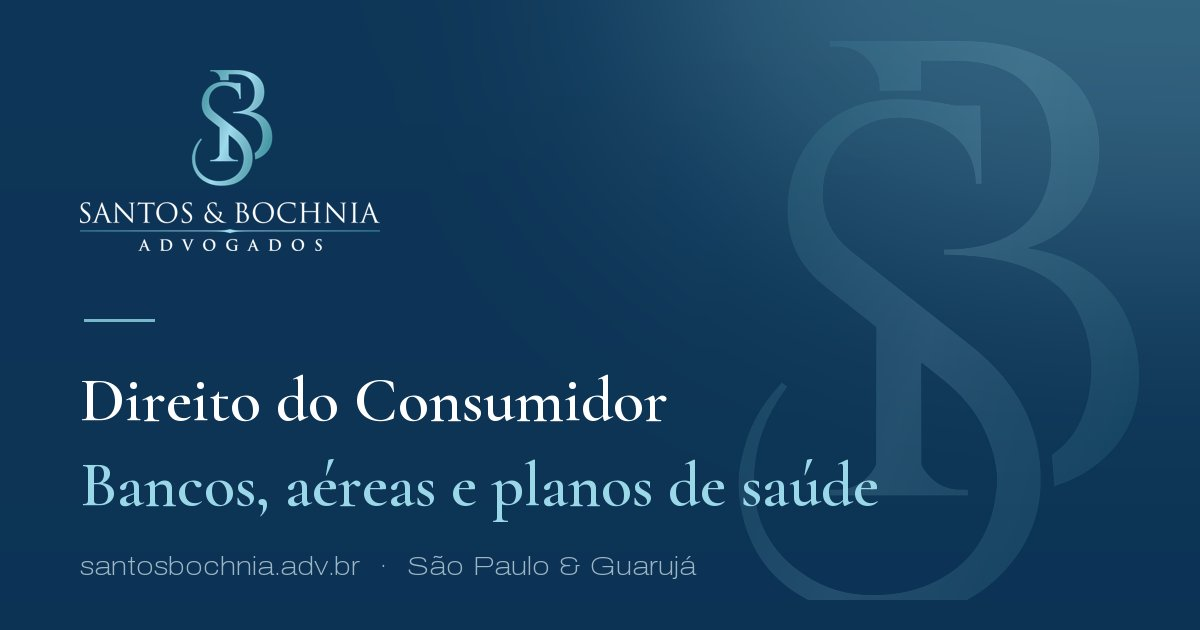
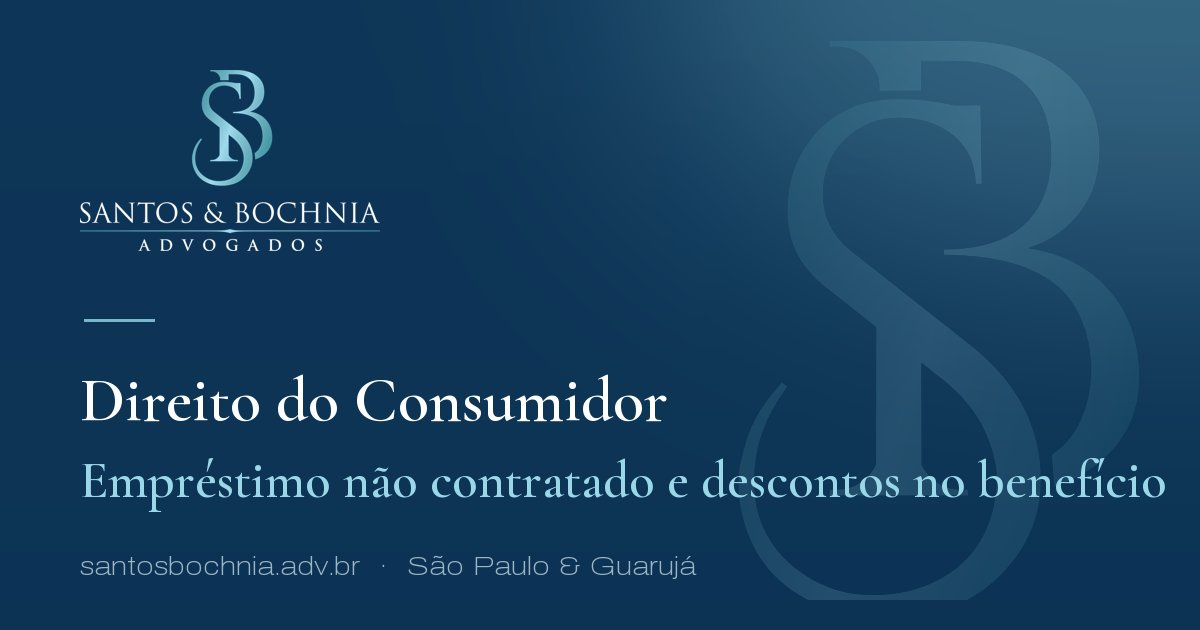
Reescreve copy da LP Consumidor com foco em fraudes bancárias/consignado
Headline, checklist (8 cenários), FAQ (7 perguntas) e CTA final passam a
usar as frases reais de busca do público: empréstimo não contratado,
descontos RMC/RCC no benefício do INSS, dívida renovada sem autorização,
banco consumindo o benefício, consórcio sem carta de crédito. Fonte maior
(público 50+), card do index e OG image atualizados. Feedback do cliente.

Changed region(s): [[0.0617, 0.7238, 0.9867, 0.8143]]

diff --git a/site/consumidor.html b/site/consumidor.html
@@ -4,15 +4,15 @@
   <meta charset="UTF-8">
   <meta name="viewport" content="width=device-width, initial-scale=1">
   <!-- PARAM: title/description -->
-  <title>Advogado do Consumidor — Bancos, Aéreas e Planos de Saúde | Santos &amp; Bochnia</title>
-  <meta name="description" content="Negativação indevida, cobrança abusiva, voo cancelado ou cobertura negada pelo plano de saúde. Conheça seus direitos e fale com nossa equipe pelo WhatsApp.">
+  <title>Advogado do Consumidor — Empréstimo Não Contratado e Descontos no Benefício | Santos &amp; Bochnia</title>
+  <meta name="description" content="Desconto no benefício do INSS que você não reconhece, empréstimo ou cartão que não contratou, RMC/RCC, dívida renovada sem autorização. Fale com nossa equipe pelo WhatsApp.">
   <link rel="canonical" href="https://santosbochnia.adv.br/consumidor">
   <meta name="theme-color" content="#0D3557">
 
   <!-- PARAM: og -->
   <meta property="og:type" content="website">
-  <meta property="og:title" content="Advogado do Consumidor — Bancos, Aéreas e Planos de Saúde">
-  <meta property="og:description" content="Negativação indevida, cobrança abusiva ou cobertura negada? Uma primeira conversa sem compromisso para analisar o seu caso.">
+  <meta property="og:title" content="Advogado do Consumidor — Empréstimo Não Contratado e Descontos no Benefício">
+  <meta property="og:description" content="Empréstimo que você não contratou? Desconto de RMC/RCC no benefício? Uma primeira conversa sem compromisso para analisar o seu caso.">
   <meta property="og:url" content="https://santosbochnia.adv.br/consumidor">
   <meta property="og:image" content="https://santosbochnia.adv.br/assets/img/og/og-consumidor.jpg">
   <meta property="og:locale" content="pt_BR">
@@ -41,7 +41,7 @@
       {
         "@type": "Service",
         "name": "Direito do Consumidor",
-        "serviceType": "Assessoria jurídica em relações de consumo",
+        "serviceType": "Defesa do consumidor em fraudes bancárias, empréstimo consignado e relações de consumo",
         "url": "https://santosbochnia.adv.br/consumidor",
         "areaServed": "BR",
         "provider": { "@id": "https://santosbochnia.adv.br/#escritorio" }
@@ -49,11 +49,12 @@
       {
         "@type": "FAQPage",
         "mainEntity": [
-          { "@type": "Question", "name": "Vale a pena processar por um valor pequeno?", "acceptedAnswer": { "@type": "Answer", "text": "Em muitos casos, sim. Além do valor cobrado indevidamente, podem se somar a repetição do indébito e, quando cabível, a indenização por dano moral. Os Juizados Especiais simplificam causas de menor valor, com procedimento mais acessível. Cada caso exige análise individual para dizer, com franqueza, se o caminho compensa." } },
-          { "@type": "Question", "name": "Quanto tempo demora um processo do consumidor?", "acceptedAnswer": { "@type": "Answer", "text": "Depende da via escolhida e da complexidade do caso. Ações nos Juizados Especiais costumam ser mais céleres, mas o tempo varia conforme a região e a necessidade de provas. Ao analisar o seu caso, explicamos o cenário realista de prazos — sem promessas irreais." } },
-          { "@type": "Question", "name": "Preciso de provas? Quais?", "acceptedAnswer": { "@type": "Answer", "text": "Sim, e elas costumam estar mais perto do que se imagina: contratos, faturas, números de protocolo, e-mails, prints de conversas e comprovantes de pagamento. Na primeira conversa orientamos exatamente o que reunir para o seu caso." } },
-          { "@type": "Question", "name": "Já paguei a cobrança indevida. Ainda posso reclamar?", "acceptedAnswer": { "@type": "Answer", "text": "Em geral, sim. O Código de Defesa do Consumidor prevê a repetição do indébito, que permite reaver valores pagos indevidamente, observados os prazos legais. Pagar a cobrança não significa concordar com ela — cada situação exige análise individual." } },
-          { "@type": "Question", "name": "Existe prazo para reclamar?", "acceptedAnswer": { "@type": "Answer", "text": "Sim. Para vícios aparentes, o prazo é de 30 dias em produtos e serviços não duráveis e de 90 dias nos duráveis. Para a reparação de danos causados pelo fornecedor, o prazo é de 5 anos. Por isso não convém esperar: quanto antes o caso é analisado, mais caminhos ficam abertos." } },
+          { "@type": "Question", "name": "Descobri um empréstimo que não contratei. O que eu faço?", "acceptedAnswer": { "@type": "Answer", "text": "Não assine nada e não aceite acordos por telefone. Reúna o extrato de empréstimos do Meu INSS (ou do seu banco) e os comprovantes dos descontos. Em geral, é possível contestar o contrato, pleitear o cancelamento e a devolução dos valores descontados — em determinados casos, a lei prevê a devolução em dobro. Cada situação exige análise individual." } },
+          { "@type": "Question", "name": "O que são os descontos de RMC e RCC no meu benefício?", "acceptedAnswer": { "@type": "Answer", "text": "RMC (Reserva de Margem Consignável) e RCC (Reserva de Cartão Consignado) são descontos ligados a cartões de crédito consignados. O problema: muitos beneficiários nunca pediram esse cartão. Se você não solicitou nem usou o cartão, o desconto pode ser questionado, com pedido de cancelamento e devolução dos valores." } },
+          { "@type": "Question", "name": "Renovaram ou refinanciaram minha dívida sem eu pedir. Isso é permitido?", "acceptedAnswer": { "@type": "Answer", "text": "Renovação e refinanciamento exigem o seu consentimento expresso. Se a dívida foi renovada sem autorização — e as parcelas voltaram a aumentar —, a operação pode ser questionada judicialmente, com revisão do contrato e, conforme o caso, devolução do que foi cobrado a mais." } },
+          { "@type": "Question", "name": "O banco está ficando com quase todo o meu benefício. Existe limite?", "acceptedAnswer": { "@type": "Answer", "text": "Sim. A lei limita a margem consignável — o percentual do benefício ou salário que pode ser comprometido com descontos de empréstimos e cartões. Quando os descontos ultrapassam esse limite, é possível pedir a readequação das parcelas e a revisão dos contratos." } },
+          { "@type": "Question", "name": "Fui contemplado no consórcio e não recebo a carta de crédito. E agora?", "acceptedAnswer": { "@type": "Answer", "text": "A administradora tem obrigações definidas em contrato e na regulamentação do Banco Central. Se você foi contemplado, cumpriu os requisitos e mesmo assim não recebe a carta de crédito, é possível notificar a administradora e, se necessário, buscar judicialmente a liberação e a reparação de eventuais prejuízos." } },
+          { "@type": "Question", "name": "Quais documentos devo separar?", "acceptedAnswer": { "@type": "Answer", "text": "O extrato de empréstimos consignados do Meu INSS (aplicativo ou site), extratos bancários dos descontos, contratos (se tiver), faturas, números de protocolo e prints de conversas. Na primeira conversa orientamos exatamente o que reunir para o seu caso." } },
           { "@type": "Question", "name": "O atendimento é a distância?", "acceptedAnswer": { "@type": "Answer", "text": "Sim. Grande parte do atendimento pode ser feita por WhatsApp ou videochamada, com envio digital de documentos. Se preferir, recebemos você presencialmente em São Paulo (Faria Lima) ou no Guarujá." } }
         ]
       }
@@ -84,9 +85,9 @@
           <!-- PARAM: eyebrow -->
           <p class="eyebrow rv">Direito do Consumidor</p>
           <!-- PARAM: headline -->
-          <h1 class="rv" data-rv-delay="0.08">Negativação indevida, voo cancelado, plano que negou cobertura? Você não precisa&nbsp;aceitar.</h1>
+          <h1 class="rv" data-rv-delay="0.08">Apareceu um desconto no seu benefício que você não reconhece? Você não precisa&nbsp;aceitar.</h1>
           <!-- PARAM: subheadline -->
-          <p class="lp-sub rv" data-rv-delay="0.16">Atuamos na reparação de danos contra bancos, financeiras, companhias aéreas, planos de saúde e operadoras de telefonia. Analisamos o seu caso com franqueza e explicamos seus direitos em linguagem simples.</p>
+          <p class="lp-sub rv" data-rv-delay="0.16">Empréstimos e cartões que você nunca contratou, descontos de RMC/RCC, dívidas renovadas sem autorização: analisamos seus extratos, explicamos seus direitos em linguagem simples e atuamos para questionar os descontos e buscar a devolução do que foi cobrado indevidamente.</p>
           <!-- CTA 1 -->
           <a class="btn btn-wa btn--lg rv" data-rv-delay="0.24" href="https://wa.me/5511978992799?text=Ol%C3%A1%21%20Vim%20pela%20p%C3%A1gina%20de%20Direito%20do%20Consumidor%20e%20gostaria%20de%20avaliar%20meu%20caso." target="_blank" rel="noopener">
             <svg viewBox="0 0 24 24" fill="currentColor" aria-hidden="true"><path d="M17.5 14.4c-.3-.15-1.76-.87-2.03-.97-.27-.1-.47-.15-.67.15-.2.3-.77.96-.94 1.16-.17.2-.35.22-.65.07-.3-.15-1.26-.46-2.4-1.48-.89-.79-1.49-1.77-1.66-2.07-.17-.3-.02-.46.13-.61.13-.13.3-.35.45-.52.15-.17.2-.3.3-.5.1-.2.05-.37-.02-.52-.08-.15-.67-1.62-.92-2.22-.24-.58-.49-.5-.67-.51h-.57c-.2 0-.52.07-.8.37-.27.3-1.04 1.02-1.04 2.5 0 1.47 1.07 2.9 1.22 3.1.15.2 2.1 3.2 5.1 4.49.71.31 1.27.49 1.7.63.72.23 1.37.2 1.88.12.58-.09 1.76-.72 2.01-1.42.25-.7.25-1.29.17-1.42-.07-.13-.27-.2-.57-.35M12.05 21.79h-.01a9.87 9.87 0 0 1-5.03-1.38l-.36-.21-3.74.98 1-3.65-.24-.37a9.86 9.86 0 0 1-1.51-5.26c0-5.45 4.44-9.88 9.9-9.88a9.83 9.83 0 0 1 7 2.9 9.83 9.83 0 0 1 2.89 7c0 5.45-4.44 9.88-9.9 9.88m8.42-18.3A11.82 11.82 0 0 0 12.05 0C5.5 0 .16 5.33.16 11.89c0 2.1.55 4.14 1.59 5.94L.06 24l6.33-1.66a11.9 11.9 0 0 0 5.66 1.44h.01c6.55 0 11.89-5.33 11.89-11.89 0-3.18-1.24-6.16-3.48-8.4"/></svg>
@@ -113,15 +114,17 @@
         <h2 class="rv" data-rv-delay="0.06">Esta página é para você&nbsp;se…</h2>
         <!-- PARAM: checklist -->
         <ul class="check-list">
-          <li class="rv">Seu nome foi negativado por uma dívida que você não reconhece — ou que já pagou</li>
-          <li class="rv" data-rv-delay="0.05">Você sofre cobrança abusiva ou juros indevidos de banco ou financeira</li>
-          <li class="rv" data-rv-delay="0.1">Seu voo foi cancelado ou atrasou e a companhia aérea não prestou assistência</li>
-          <li class="rv" data-rv-delay="0.15">O plano de saúde negou procedimento, exame ou reembolso</li>
-          <li class="rv" data-rv-delay="0.2">Você comprou produto ou contratou serviço com defeito e o fornecedor não resolve</li>
-          <li class="rv" data-rv-delay="0.25">Você assinou um contrato e desconfia que ele contém cláusulas abusivas</li>
+          <li class="rv">Você descobriu um empréstimo no seu nome que nunca contratou</li>
+          <li class="rv" data-rv-delay="0.05">Aparece um desconto no seu benefício do INSS e você não sabe de onde vem</li>
+          <li class="rv" data-rv-delay="0.1">Há desconto de RMC ou RCC (cartão consignado) e você nunca pediu esse cartão</li>
+          <li class="rv" data-rv-delay="0.15">Sua dívida foi renovada ou refinanciada pelo banco sem a sua autorização — e as parcelas aumentaram de novo</li>
+          <li class="rv" data-rv-delay="0.2">O banco está ficando com quase todo o seu benefício ou salário</li>
+          <li class="rv" data-rv-delay="0.25">Você foi contemplado no consórcio e não consegue receber a carta de crédito</li>
+          <li class="rv" data-rv-delay="0.3">Seu nome foi negativado por uma dívida que você não reconhece — ou que já pagou</li>
+          <li class="rv" data-rv-delay="0.35">Cobrança abusiva, voo cancelado sem assistência ou plano de saúde que negou cobertura</li>
         </ul>
         <!-- CTA 2 -->
-        <a class="btn btn-wa rv" href="https://wa.me/5511978992799?text=Ol%C3%A1%21%20Vim%20pela%20p%C3%A1gina%20de%20Direito%20do%20Consumidor%20e%20gostaria%20de%20avaliar%20meu%20caso." target="_blank" rel="noopener">Quero analisar meu caso</a>
+        <a class="btn btn-wa rv" href="https://wa.me/5511978992799?text=Ol%C3%A1%21%20Vim%20pela%20p%C3%A1gina%20de%20Direito%20do%20Consumidor%20e%20gostaria%20de%20avaliar%20meu%20caso." target="_blank" rel="noopener">Quero entender esses descontos</a>
       </div>
     </section>
 
@@ -160,7 +163,7 @@
         <h2 class="rv" data-rv-delay="0.06">Três passos para tirar seu caso do&nbsp;papel.</h2>
         <ol class="passos-grid">
           <li class="passo rv"><span class="passo-n">1</span><h3>Chame no WhatsApp</h3><p>Conte sua situação com suas palavras. Sem formulários complicados.</p></li>
-          <li class="passo rv" data-rv-delay="0.08"><span class="passo-n">2</span><h3>Analisamos seu caso</h3><p>Avaliamos contratos, faturas, protocolos e demais provas para verificar o cabimento.</p></li>
+          <li class="passo rv" data-rv-delay="0.08"><span class="passo-n">2</span><h3>Analisamos seus extratos</h3><p>Avaliamos o extrato do Meu INSS, contratos e descontos para identificar o que foi feito sem a sua autorização.</p></li>
           <li class="passo rv" data-rv-delay="0.16"><span class="passo-n">3</span><h3>Definimos a estratégia</h3><p>Apresentamos o caminho recomendado — administrativo ou judicial — com prazos e expectativas claras.</p></li>
         </ol>
         <!-- CTA 3 -->
@@ -193,24 +196,28 @@
         <!-- PARAM: faq -->
         <div class="faq rv" data-rv-delay="0.12">
           <details>
-            <summary>Vale a pena processar por um valor pequeno?</summary>
-            <div class="faq-body"><p>Em muitos casos, sim. Além do valor cobrado indevidamente, podem se somar a repetição do indébito e, quando cabível, a indenização por dano moral. Os Juizados Especiais simplificam causas de menor valor, com procedimento mais acessível. Cada caso exige análise individual para dizer, com franqueza, se o caminho compensa.</p></div>
+            <summary>Descobri um empréstimo que não contratei. O que eu faço?</summary>
+            <div class="faq-body"><p>Não assine nada e não aceite acordos por telefone. Reúna o extrato de empréstimos do Meu INSS (ou do seu banco) e os comprovantes dos descontos. Em geral, é possível contestar o contrato, pleitear o cancelamento e a devolução dos valores descontados — em determinados casos, a lei prevê a devolução em dobro. Cada situação exige análise individual.</p></div>
           </details>
           <details>
-            <summary>Quanto tempo demora um processo do consumidor?</summary>
-            <div class="faq-body"><p>Depende da via escolhida e da complexidade do caso. Ações nos Juizados Especiais costumam ser mais céleres, mas o tempo varia conforme a região e a necessidade de provas. Ao analisar o seu caso, explicamos o cenário realista de prazos — sem promessas irreais.</p></div>
+            <summary>O que são os descontos de RMC e RCC no meu benefício?</summary>
+            <div class="faq-body"><p>RMC (Reserva de Margem Consignável) e RCC (Reserva de Cartão Consignado) são descontos ligados a cartões de crédito consignados. O problema: muitos beneficiários nunca pediram esse cartão. Se você não solicitou nem usou o cartão, o desconto pode ser questionado, com pedido de cancelamento e devolução dos valores.</p></div>
           </details>
           <details>
-            <summary>Preciso de provas? Quais?</summary>
-            <div class="faq-body"><p>Sim, e elas costumam estar mais perto do que se imagina: contratos, faturas, números de protocolo, e-mails, prints de conversas e comprovantes de pagamento. Na primeira conversa orientamos exatamente o que reunir para o seu caso.</p></div>
+            <summary>Renovaram ou refinanciaram minha dívida sem eu pedir. Isso é permitido?</summary>
+            <div class="faq-body"><p>Renovação e refinanciamento exigem o seu consentimento expresso. Se a dívida foi renovada sem autorização — e as parcelas voltaram a aumentar —, a operação pode ser questionada judicialmente, com revisão do contrato e, conforme o caso, devolução do que foi cobrado a mais.</p></div>
           </details>
           <details>
-            <summary>Já paguei a cobrança indevida. Ainda posso reclamar?</summary>
-            <div class="faq-body"><p>Em geral, sim. O Código de Defesa do Consumidor prevê a repetição do indébito, que permite reaver valores pagos indevidamente, observados os prazos legais. Pagar a cobrança não significa concordar com ela — cada situação exige análise individual.</p></div>
+            <summary>O banco está ficando com quase todo o meu benefício. Existe limite?</summary>
+            <div class="faq-body"><p>Sim. A lei limita a margem consignável — o percentual do benefício ou salário que pode ser comprometido com descontos de empréstimos e cartões. Quando os descontos ultrapassam esse limite, é possível pedir a readequação das parcelas e a revisão dos contratos.</p></div>
           </details>
           <details>
-            <summary>Existe prazo para reclamar?</summary>
-            <div class="faq-body"><p>Sim. Para vícios aparentes, o prazo é de 30 dias em produtos e serviços não duráveis e de 90 dias nos duráveis. Para a reparação de danos causados pelo fornecedor, o prazo é de 5 anos. Por isso não convém esperar: quanto antes o caso é analisado, mais caminhos ficam abertos.</p></div>
+            <summary>Fui contemplado no consórcio e não recebo a carta de crédito. E agora?</summary>
+            <div class="faq-body"><p>A administradora tem obrigações definidas em contrato e na regulamentação do Banco Central. Se você foi contemplado, cumpriu os requisitos e mesmo assim não recebe a carta de crédito, é possível notificar a administradora e, se necessário, buscar judicialmente a liberação e a reparação de eventuais prejuízos.</p></div>
+          </details>
+          <details>
+            <summary>Quais documentos devo separar?</summary>
+            <div class="faq-body"><p>O extrato de empréstimos consignados do Meu INSS (aplicativo ou site), extratos bancários dos descontos, contratos (se tiver), faturas, números de protocolo e prints de conversas. Na primeira conversa orientamos exatamente o que reunir para o seu caso.</p></div>
           </details>
           <details>
             <summary>O atendimento é a distância?</summary>
@@ -224,8 +231,8 @@
     <section class="lp-cta">
       <div class="container">
         <!-- PARAM: headline final -->
-        <h2 class="rv">Quanto mais o tempo passa, mais difícil reunir as provas.</h2>
-        <p class="rv" data-rv-delay="0.08">Os prazos do Código de Defesa do Consumidor correm a partir da data do fato. Quanto antes o caso for analisado, mais caminhos ficam abertos.</p>
+        <h2 class="rv">Cada mês que passa é mais um desconto caindo na sua conta.</h2>
+        <p class="rv" data-rv-delay="0.08">Enquanto o contrato não é questionado, os descontos continuam — e os prazos legais para reaver valores seguem correndo. Quanto antes o caso for analisado, mais caminhos ficam abertos.</p>
         <!-- CTA 4 -->
         <a class="btn btn-wa btn--lg rv" data-rv-delay="0.14" href="https://wa.me/5511978992799?text=Ol%C3%A1%21%20Vim%20pela%20p%C3%A1gina%20de%20Direito%20do%20Consumidor%20e%20gostaria%20de%20avaliar%20meu%20caso." target="_blank" rel="noopener">
           <svg viewBox="0 0 24 24" fill="currentColor" aria-hidden="true"><path d="M17.5 14.4c-.3-.15-1.76-.87-2.03-.97-.27-.1-.47-.15-.67.15-.2.3-.77.96-.94 1.16-.17.2-.35.22-.65.07-.3-.15-1.26-.46-2.4-1.48-.89-.79-1.49-1.77-1.66-2.07-.17-.3-.02-.46.13-.61.13-.13.3-.35.45-.52.15-.17.2-.3.3-.5.1-.2.05-.37-.02-.52-.08-.15-.67-1.62-.92-2.22-.24-.58-.49-.5-.67-.51h-.57c-.2 0-.52.07-.8.37-.27.3-1.04 1.02-1.04 2.5 0 1.47 1.07 2.9 1.22 3.1.15.2 2.1 3.2 5.1 4.49.71.31 1.27.49 1.7.63.72.23 1.37.2 1.88.12.58-.09 1.76-.72 2.01-1.42.25-.7.25-1.29.17-1.42-.07-.13-.27-.2-.57-.35M12.05 21.79h-.01a9.87 9.87 0 0 1-5.03-1.38l-.36-.21-3.74.98 1-3.65-.24-.37a9.86 9.86 0 0 1-1.51-5.26c0-5.45 4.44-9.88 9.9-9.88a9.83 9.83 0 0 1 7 2.9 9.83 9.83 0 0 1 2.89 7c0 5.45-4.44 9.88-9.9 9.88m8.42-18.3A11.82 11.82 0 0 0 12.05 0C5.5 0 .16 5.33.16 11.89c0 2.1.55 4.14 1.59 5.94L.06 24l6.33-1.66a11.9 11.9 0 0 0 5.66 1.44h.01c6.55 0 11.89-5.33 11.89-11.89 0-3.18-1.24-6.16-3.48-8.4"/></svg>

diff --git a/site/css/lp.css b/site/css/lp.css
@@ -7,8 +7,8 @@
 
 body.lp { background: var(--paper); }
 
-/* Previdenciário: público 50+ → corpo maior */
-body.lp--prev { font-size: clamp(1.06rem, .4vw + 1rem, 1.19rem); }
+/* Previdenciário e Consumidor (fraudes em consignado): público 50+ → corpo maior */
+body.lp--prev, body.lp--consumidor { font-size: clamp(1.06rem, .4vw + 1rem, 1.19rem); }
 /* Penal: atmosfera mais fechada */
 body.lp--penal { --ice: #F2F6F8; }
 

diff --git a/site/index.html b/site/index.html
@@ -191,8 +191,8 @@
             <figure><img src="assets/img/ia/area-consumidor.webp" alt="Cartão, documentos e smartphone organizados sobre uma mesa clara" loading="lazy" decoding="async" width="1600" height="1200"></figure>
             <div class="area-body">
               <h3>Direito do Consumidor</h3>
-              <p>Reparação em conflitos com bancos, companhias aéreas, planos de saúde e prestadores de serviço.</p>
-              <ul><li>Negativação indevida e cobrança abusiva</li><li>Voos cancelados e extravios</li><li>Planos de saúde e telefonia</li></ul>
+              <p>Defesa contra fraudes bancárias e descontos indevidos, além de conflitos de consumo em geral.</p>
+              <ul><li>Empréstimo consignado não contratado</li><li>Descontos de RMC/RCC no benefício</li><li>Negativação indevida e cobrança abusiva</li></ul>
               <span class="area-link">Saiba mais <span aria-hidden="true">→</span></span>
             </div>
           </a>